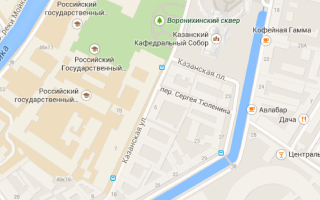
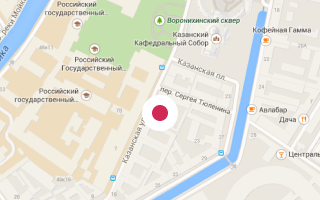
pixel perfect блока map в мобильной версии

Changed region(s): [[0.4375, 0.48, 0.5625, 0.66]]

diff --git a/source/sass/blocks/map.scss b/source/sass/blocks/map.scss
@@ -5,15 +5,4 @@
   background-repeat: no-repeat;
   min-width: 320px;
   min-height: 200px;
-
-  &::after {
-    content: "";
-    background-image: url("../img/map-marker.svg");
-    background-repeat: no-repeat;
-    width: 36px;
-    height: 36px;
-    position: absolute;
-    left: 42%;
-    top: 48%;
-  }
 }
